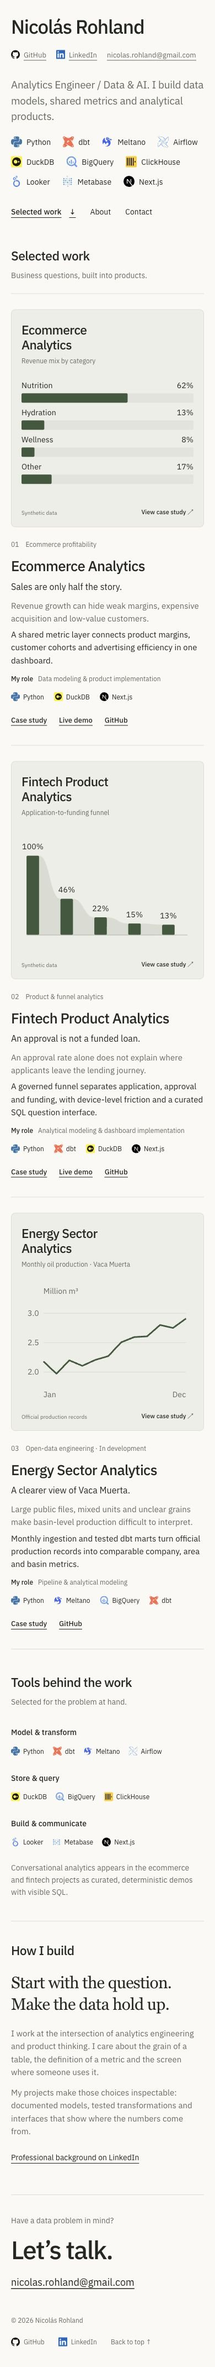
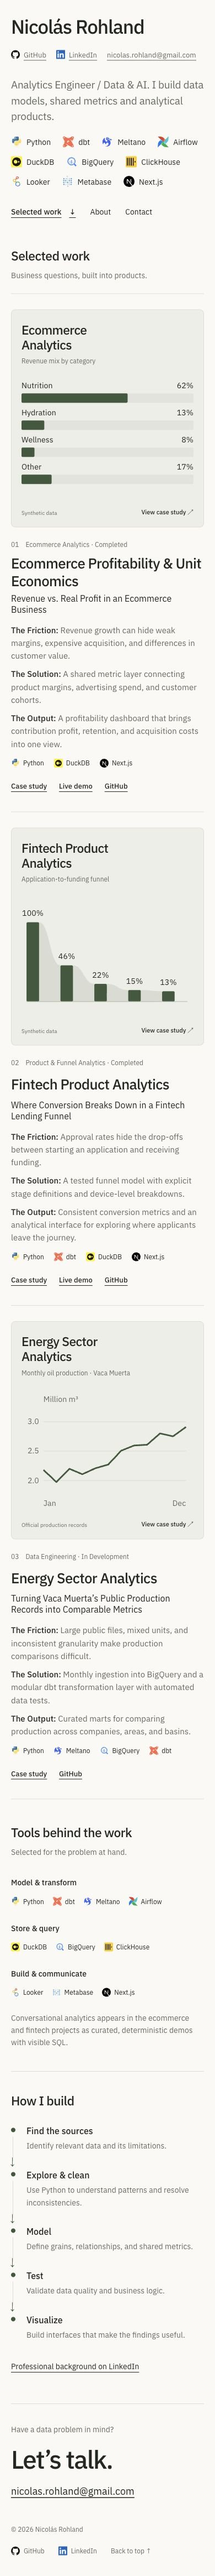
Refine project copy and show the build process as a diagram

Changed region(s): [[0.0308, 0.0, 0.9231, 0.9942], [0.8308, 0.1553, 0.8923, 0.2175], [0.8, 0.7767, 0.8923, 0.8078]]

diff --git a/src/app/globals.css b/src/app/globals.css
@@ -57,10 +57,11 @@ h2 { font-size:23px; font-weight:500; letter-spacing:-.6px; }
 .project-number { font-variant-numeric:tabular-nums; }
 .project-info h3 { margin-top:8px; font-size:25px; font-weight:500; letter-spacing:-.7px; line-height:1.25; }
 .project-info h3 span { display:block; font-size:16px; font-weight:400; letter-spacing:0; margin-top:5px; }
-.project-problem { font-size:14px; color:var(--muted); margin-top:13px; max-width:600px; }
-.project-outcome { font-size:14px; margin-top:6px; max-width:600px; }
-.project-role { font-size:12px; color:var(--muted); margin-top:12px; }
-.project-role span { color:var(--ink); font-weight:500; margin-right:6px; }
+.project-summary { margin:16px 0 0; font-size:14px; max-width:600px; }
+.project-summary > div { margin-top:10px; }
+.project-summary dt { display:inline; font-weight:500; }
+.project-summary dt::after { content:": "; }
+.project-summary dd { display:inline; margin:0; color:var(--muted); }
 .tech-stack { display:flex; flex-wrap:wrap; gap:10px 16px; list-style:none; margin-top:14px; }
 .tech-stack li { display:inline-flex; gap:6px; align-items:center; font-size:12px; }
 .tech-stack svg { width:16px; height:16px; fill:currentColor; flex-shrink:0; }
@@ -72,9 +73,15 @@ h2 { font-size:23px; font-weight:500; letter-spacing:-.6px; }
 .technology-groups h3 { font-size:14px; font-weight:500; }
 .technology-groups .tech-stack { gap:16px; }
 .stack-note { font-size:13px; color:var(--muted); margin-top:26px; max-width:720px; }
-.about-section { border-top:1px solid var(--line); display:grid; grid-template-columns:310px 1fr; gap:40px; padding-block:50px 72px; }
-.about-lead { font-family:Georgia,serif; font-size:32px; line-height:1.3; letter-spacing:-.8px; margin-bottom:22px; }
-.about-section p:not(.about-lead) { color:var(--muted); font-size:15px; margin-bottom:14px; }
+.about-section { border-top:1px solid var(--line); padding-block:50px 60px; }
+.build-process { display:grid; grid-template-columns:repeat(5,minmax(0,1fr)); gap:22px; list-style:none; margin-top:30px; }
+.build-process li { position:relative; padding-top:28px; }
+.build-process li::before { content:""; position:absolute; top:6px; left:0; width:8px; height:8px; border-radius:50%; background:var(--accent); }
+.build-process li:not(:last-child)::after { content:""; position:absolute; top:9px; left:15px; right:3px; border-top:1px solid var(--line); }
+.process-arrow { position:absolute; right:-18px; top:-3px; color:var(--accent); font-size:18px; }
+.build-process h3 { font-size:16px; font-weight:500; line-height:1.4; }
+.build-process p { color:var(--muted); font-size:13px; line-height:1.6; margin-top:8px; }
+.process-profile { margin-top:24px; }
 .text-link { display:inline-flex; min-height:44px; align-items:center; font-size:14px; text-decoration:underline; }
 .contact-section { border-top:1px solid var(--line); padding-block:48px 24px; }
 .contact-section > p { font-size:14px; color:var(--muted); }
@@ -102,7 +109,7 @@ h2 { font-size:23px; font-weight:500; letter-spacing:-.6px; }
 .decisions { padding-left:20px; color:var(--muted); }
 .decisions li { padding-left:6px; margin-bottom:15px; }
 .case-footer { border-top:1px solid var(--line); display:flex; justify-content:space-between; gap:20px; padding-top:20px; }
-@media(max-width:900px) { .hero-top { align-items:start; flex-direction:column; gap:8px; } .project-row { grid-template-columns:280px 1fr; gap:28px; } .project-info h3 { font-size:23px; } .about-section { grid-template-columns:280px 1fr; gap:28px; } }
+@media(max-width:900px) { .hero-top { align-items:start; flex-direction:column; gap:8px; } .project-row { grid-template-columns:280px 1fr; gap:28px; } .project-info h3 { font-size:23px; } }
 @media(max-width:700px) {
   .wrap { width:calc(100% - 40px); } .site-header { padding-block:16px; } .site-header nav { gap:22px; }
   .hero { padding-block:28px 40px; } .hero h1 { font-size:clamp(34px,9vw,46px); letter-spacing:-1.2px; }
@@ -110,10 +117,16 @@ h2 { font-size:23px; font-weight:500; letter-spacing:-.6px; }
   .hero .tech-stack { margin-top:22px; gap:14px 22px; } .hero .tech-stack li { font-size:14px; }
   .section-heading { display:block; padding-bottom:22px; } .section-heading p { margin-top:6px; }
   .project-row { grid-template-columns:1fr; gap:23px; padding-block:28px 24px; }
-  .project-info h3 { font-size:26px; } .project-category { font-size:12px; } .project-problem,.project-outcome { font-size:15px; }
-  .project-role { line-height:1.6; } .tech-stack { gap:12px 18px; } .project-links { gap:22px; }
+  .project-info h3 { font-size:26px; } .project-category { font-size:12px; } .project-summary { font-size:15px; }
+  .tech-stack { gap:12px 18px; } .project-links { gap:22px; }
   .technology-groups { grid-template-columns:1fr; gap:28px; } .stack-section { padding-block:42px; } .stack-note { font-size:14px; }
-  .about-section { grid-template-columns:1fr; gap:20px; padding-block:35px 45px; } .about-lead { font-size:30px; }
+  .about-section { padding-block:35px 45px; }
+  .build-process { grid-template-columns:1fr; gap:0; margin-top:25px; }
+  .build-process li { padding:0 0 30px 28px; }
+  .build-process li:last-child { padding-bottom:0; }
+  .build-process li:not(:last-child)::after { top:22px; bottom:13px; left:3px; right:auto; border-top:0; border-left:1px solid var(--line); }
+  .process-arrow { top:auto; right:auto; bottom:-2px; left:-4px; transform:rotate(90deg); }
+  .build-process p { font-size:14px; margin-top:5px; }
   .contact-section { padding-top:35px; } .contact-section h2 { font-size:46px; } .email-link { font-size:18px; }
   .footer-bottom { flex-direction:column; align-items:start; margin-top:38px; gap:8px; } .footer-bottom > div { gap:25px; }
   .case-page { padding-top:15px; } .case-heading { margin-top:28px; } .case-heading h1 { font-size:52px; } .case-thesis { font-size:23px; }

diff --git a/src/data/site.ts b/src/data/site.ts
@@ -4,16 +4,17 @@ export const contact = { email: "nicolas.rohland@gmail.com", linkedin: "https://
 export type Technology = "Python" | "dbt" | "DuckDB" | "BigQuery" | "Meltano" | "Next.js" | "Airflow" | "ClickHouse" | "Looker" | "Metabase";
 export type Project = {
   slug: string; title: string; category: string; thesis: string; problem: string;
-  outcome: string; role: string; stack: Technology[]; image?: string; imageAlt?: string;
+  solution: string; outcome: string; stack: Technology[]; image?: string; imageAlt?: string;
   disclosure: string; flow: string[]; decisions: string[]; limitations: string;
   repoUrl: string; liveUrl?: string; sourceUrl: string;
 };
 export const projects: Project[] = [
   {
-    slug: "northstar", title: "Ecommerce Analytics", category: "Ecommerce profitability", thesis: "Sales are only half the story.",
-    problem: "Revenue growth can hide weak margins, expensive acquisition and low-value customers.",
-    outcome: "A shared metric layer connects product margins, customer cohorts and advertising efficiency in one dashboard.",
-    role: "Data modeling & product implementation", stack: ["Python", "DuckDB", "Next.js"],
+    slug: "northstar", title: "Ecommerce Profitability & Unit Economics", category: "Ecommerce Analytics · Completed", thesis: "Revenue vs. Real Profit in an Ecommerce Business",
+    problem: "Revenue growth can hide weak margins, expensive acquisition, and differences in customer value.",
+    solution: "A shared metric layer connecting product margins, advertising spend, and customer cohorts.",
+    outcome: "A profitability dashboard that brings contribution profit, retention, and acquisition costs into one view.",
+    stack: ["Python", "DuckDB", "Next.js"],
     image: "/case-studies/northstar.webp", imageAlt: "Northstar live dashboard showing contribution profit and ecommerce revenue",
     disclosure: "Synthetic data · Deterministic analyst demo",
     flow: ["Python generator", "Parquet facts & dimensions", "DuckDB semantic views", "JSON snapshot", "Dashboard & analyst"],
@@ -23,10 +24,11 @@ export const projects: Project[] = [
     sourceUrl: "https://github.com/nrohland/ecommerce-profitability-analytics/blob/9f89a1bb380cc174330967092dee306cf6b92f96/README.md",
   },
   {
-    slug: "lendflow", title: "Fintech Product Analytics", category: "Product & funnel analytics", thesis: "An approval is not a funded loan.",
-    problem: "An approval rate alone does not explain where applicants leave the lending journey.",
-    outcome: "A governed funnel separates application, approval and funding, with device-level friction and a curated SQL question interface.",
-    role: "Analytical modeling & dashboard implementation", stack: ["Python", "dbt", "DuckDB", "Next.js"],
+    slug: "lendflow", title: "Fintech Product Analytics", category: "Product & Funnel Analytics · Completed", thesis: "Where Conversion Breaks Down in a Fintech Lending Funnel",
+    problem: "Approval rates hide the drop-offs between starting an application and receiving funding.",
+    solution: "A tested funnel model with explicit stage definitions and device-level breakdowns.",
+    outcome: "Consistent conversion metrics and an analytical interface for exploring where applicants leave the journey.",
+    stack: ["Python", "dbt", "DuckDB", "Next.js"],
     image: "/case-studies/lendflow.webp", imageAlt: "LendFlow live dashboard with application, approval and funding metrics",
     disclosure: "Synthetic data · Unofficial lending case study",
     flow: ["Python generator", "Parquet", "dbt on DuckDB", "Mart export", "Next.js & Ask LendFlow"],
@@ -36,10 +38,11 @@ export const projects: Project[] = [
     sourceUrl: "https://github.com/nrohland/lendflow-fintech-analytics/blob/ffc1decc2c81b9278c874c43bd50e19f411bfc79/README.md",
   },
   {
-    slug: "barrilito", title: "Energy Sector Analytics", category: "Open-data engineering · In development", thesis: "A clearer view of Vaca Muerta.",
-    problem: "Large public files, mixed units and unclear grains make basin-level production difficult to interpret.",
-    outcome: "Monthly ingestion and tested dbt marts turn official production records into comparable company, area and basin metrics.",
-    role: "Pipeline & analytical modeling", stack: ["Python", "Meltano", "BigQuery", "dbt"],
+    slug: "barrilito", title: "Energy Sector Analytics", category: "Data Engineering · In Development", thesis: "Turning Vaca Muerta’s Public Production Records into Comparable Metrics",
+    problem: "Large public files, mixed units, and inconsistent granularity make production comparisons difficult.",
+    solution: "Monthly ingestion into BigQuery and a modular dbt transformation layer with automated data tests.",
+    outcome: "Curated marts for comparing production across companies, areas, and basins.",
+    stack: ["Python", "Meltano", "BigQuery", "dbt"],
     disclosure: "Official monthly data · Pipeline built, public UI pending",
     flow: ["Capítulo IV / CKAN", "Meltano", "BigQuery raw", "dbt staging & marts", "Notebook snapshots"],
     decisions: ["Use monthly ingestion to match the source cadence, with partitioned and clustered BigQuery tables.", "Separate basin production per calendar day from well productivity per effective operating day.", "Keep unit conversions and grains explicit. A planned interpolated counter is a simulation of monthly data, not live telemetry."],

diff --git a/src/app/page.tsx b/src/app/page.tsx
@@ -3,6 +3,7 @@ import { ProjectCover } from "@/components/project-cover";
 import { Stack } from "@/components/stack";
 import { ProjectLinks } from "@/components/project-links";
 import { SocialLink } from "@/components/social-link";
+import { BuildProcess } from "@/components/build-process";
 
 export default function Page() {
   return <main id="content" className="wrap">
@@ -20,8 +21,12 @@ export default function Page() {
         <a href={`/projects/${project.slug}/`} className="cover-link" aria-label={`Read the ${project.title} case study`} target="_blank" rel="noopener noreferrer"><ProjectCover project={project} /></a>
         <div className="project-info"><p className="project-category"><span className="project-number">0{index + 1}</span>{project.category}</p>
           <h3 id={`${project.slug}-title`}><a href={`/projects/${project.slug}/`} target="_blank" rel="noopener noreferrer">{project.title}</a><span>{project.thesis}</span></h3>
-          <p className="project-problem">{project.problem}</p><p className="project-outcome">{project.outcome}</p>
-          <p className="project-role"><span>My role</span> {project.role}</p><Stack items={project.stack} /><ProjectLinks project={project} />
+          <dl className="project-summary">
+            <div><dt>The Friction</dt><dd>{project.problem}</dd></div>
+            <div><dt>The Solution</dt><dd>{project.solution}</dd></div>
+            <div><dt>The Output</dt><dd>{project.outcome}</dd></div>
+          </dl>
+          <Stack items={project.stack} /><ProjectLinks project={project} />
         </div>
       </article>)}</div>
     </section>
@@ -31,11 +36,9 @@ export default function Page() {
       <p className="stack-note">Conversational analytics appears in the ecommerce and fintech projects as curated, deterministic demos with visible SQL.</p>
     </section>
     <section id="about" className="about-section" aria-labelledby="about-title">
-      <h2 id="about-title">How I build</h2><div><p className="about-lead">Start with the question.<br />Make the data hold up.</p>
-        <p>I work at the intersection of analytics engineering and product thinking. I care about the grain of a table, the definition of a metric and the screen where someone uses it.</p>
-        <p>My projects make those choices inspectable: documented models, tested transformations and interfaces that show where the numbers come from.</p>
-        <a className="text-link" href={contact.linkedin} target="_blank" rel="noopener noreferrer">Professional background on LinkedIn</a>
-      </div>
+      <h2 id="about-title">How I build</h2>
+      <BuildProcess />
+      <a className="text-link process-profile" href={contact.linkedin} target="_blank" rel="noopener noreferrer">Professional background on LinkedIn</a>
     </section>
     <footer id="contact" className="contact-section" aria-labelledby="contact-title"><p>Have a data problem in mind?</p><h2 id="contact-title">Let’s talk.</h2>
       <a className="email-link" href={`mailto:${contact.email}`}>{contact.email}</a><div className="footer-bottom"><span>© {new Date().getFullYear()} Nicolás Rohland</span><div><SocialLink name="GitHub" href={contact.github} /><SocialLink name="LinkedIn" href={contact.linkedin} /><a href="#content">Back to top ↑</a></div></div>

diff --git a/src/app/projects/[slug]/page.tsx b/src/app/projects/[slug]/page.tsx
@@ -22,7 +22,7 @@ export default async function ProjectPage({ params }: { params: Promise<{ slug: 
       {project.image ? <Image src={project.image} alt={project.imageAlt || project.title} width={1440} height={1000} sizes="(max-width: 1000px) 100vw, 1000px" priority /> : <BasinChart />}
       <figcaption>{project.disclosure}</figcaption>
     </figure>
-    <div className="case-body"><section><h2>The problem</h2><p>{project.problem}</p></section><section><h2>What I built</h2><p>{project.outcome}</p><p className="project-role"><span>My role</span> {project.role}</p></section>
+    <div className="case-body"><section><h2>The Friction</h2><p>{project.problem}</p></section><section><h2>The Solution</h2><p>{project.solution}</p></section><section><h2>The Output</h2><p>{project.outcome}</p></section>
       <section><h2>Architecture</h2><ol className="data-flow">{project.flow.map(step => <li key={step}>{step}</li>)}</ol></section>
       <section><h2>Technical decisions</h2><ul className="decisions">{project.decisions.map(d => <li key={d}>{d}</li>)}</ul></section>
       <section><h2>Scope & limitations</h2><p>{project.limitations}</p><a className="text-link" href={project.sourceUrl} target="_blank" rel="noopener noreferrer">Read the source documentation</a></section>

diff --git a/src/components/build-process.tsx b/src/components/build-process.tsx
@@ -1,0 +1,17 @@
+const steps = [
+  { title: "Find the sources", description: "Identify relevant data and its limitations." },
+  { title: "Explore & clean", description: "Use Python to understand patterns and resolve inconsistencies." },
+  { title: "Model", description: "Define grains, relationships, and shared metrics." },
+  { title: "Test", description: "Validate data quality and business logic." },
+  { title: "Visualize", description: "Build interfaces that make the findings useful." },
+];
+
+export function BuildProcess() {
+  return <ol className="build-process" role="list" aria-label="From data sources to visualization">
+    {steps.map((step, index) => <li key={step.title}>
+      {index < steps.length - 1 && <span className="process-arrow" aria-hidden="true">→</span>}
+      <h3>{step.title}</h3>
+      <p>{step.description}</p>
+    </li>)}
+  </ol>;
+}

diff --git a/docs/verification.md b/docs/verification.md
@@ -113,3 +113,18 @@ Antislop delivery gate: hard gate PASS (source-backed shares and synthetic discl
 PR #2 was merged at a2cbb89 and deployed from main to https://nicolas-rohland.vercel.app on Vercel Hobby, connected to the existing GitHub repository. NEXT_PUBLIC_SITE_URL is set to that origin for production and preview. The public homepage renders all three final charts and its canonical URL points to the new domain; all non-anchor/non-email links retain new-tab targets. Desktop 1440px and mobile 390px have no overflow or browser warnings/errors.
 
 The shared stack now uses official multicolor SVG assets for Airflow and Python, plus official Google Cloud color SVGs for BigQuery and Looker. Existing Simple Icons brand colors for dbt, DuckDB, ClickHouse, Metabase, Next.js, GitHub and LinkedIn remain. Meltano already uses the official asset. Labels, dimensions and original artwork are preserved. Fresh lint, typecheck, static Webpack build and diff check pass; all official logo images loaded at 20px in the desktop hero and desktop/mobile visual review passed. Favicon and project covers are unchanged.
+
+## Approved project copy and process diagram, 2026-10-03
+
+The owner-approved project headlines and Friction / Solution / Output copy now appear on the homepage and case pages. Ecommerce and Fintech show Completed; Energy shows In Development. Completed describes the portfolio scope, not production usage. The synthetic-data and scope disclosures remain. My role has been removed from all four content pages. The short cover titles and their charts stay as approved.
+
+How I build is a five-stage, labeled ordered list: Find the sources, Explore & clean, Model, Test, Visualize. Static connecting lines and arrows express sequence; they are hidden from assistive technologies. The diagram is horizontal on desktop and vertical below 700px. Its descriptions are the owner's approved copy. No library, animation or new runtime JavaScript was added.
+
+Validation: lint, typecheck, production Webpack build and diff check passed. All four content pages passed local route, anchor and canonical-metadata checks. Desktop 1440px and mobile 390px screenshots reviewed; browser measurements show no overflow at 1440/390/320px. The process has five stages, aligned in one row on desktop and one column on mobile. No browser warnings/errors were observed. No existing test suite. The hosted PageSpeed attempt returned HTTP 429, so no Lighthouse score is claimed.
+
+Antislop delivery gate:
+- Hard Gate PASS: owner-approved copy adds no invented metrics or integrations; existing chart disclosures remain; the diagram is semantic HTML; all local destinations exist; tested widths have no overflow and the production build succeeds.
+- Purpose Gate PASS: dots, lines and arrows express process order rather than decoration; labels and descriptions provide the equivalent text; bold definition labels help scan the three project questions. No new shadows, gradients, badges or motion.
+- Liveliness PASS: ENERGY 1 / RHYTHM 2 / MOTION 1 retained from the approved editorial direction. Shared IBM Plex Sans and green palette remain; the wide process diagram contrasts with the project rows and compact hero.
+- Craftsmanship PASS: inspected desktop/mobile screenshots show readable labels, aligned stages and contained text; the existing visible focus and reduced-motion rules remain; static ordered content needs no loading/empty/error state.
+- Copywriting PASS: headlines and descriptions match the owner's approved text, with no fabricated performance or impact claims; completion labels retain synthetic/scope context; technical case details remain source-backed.
